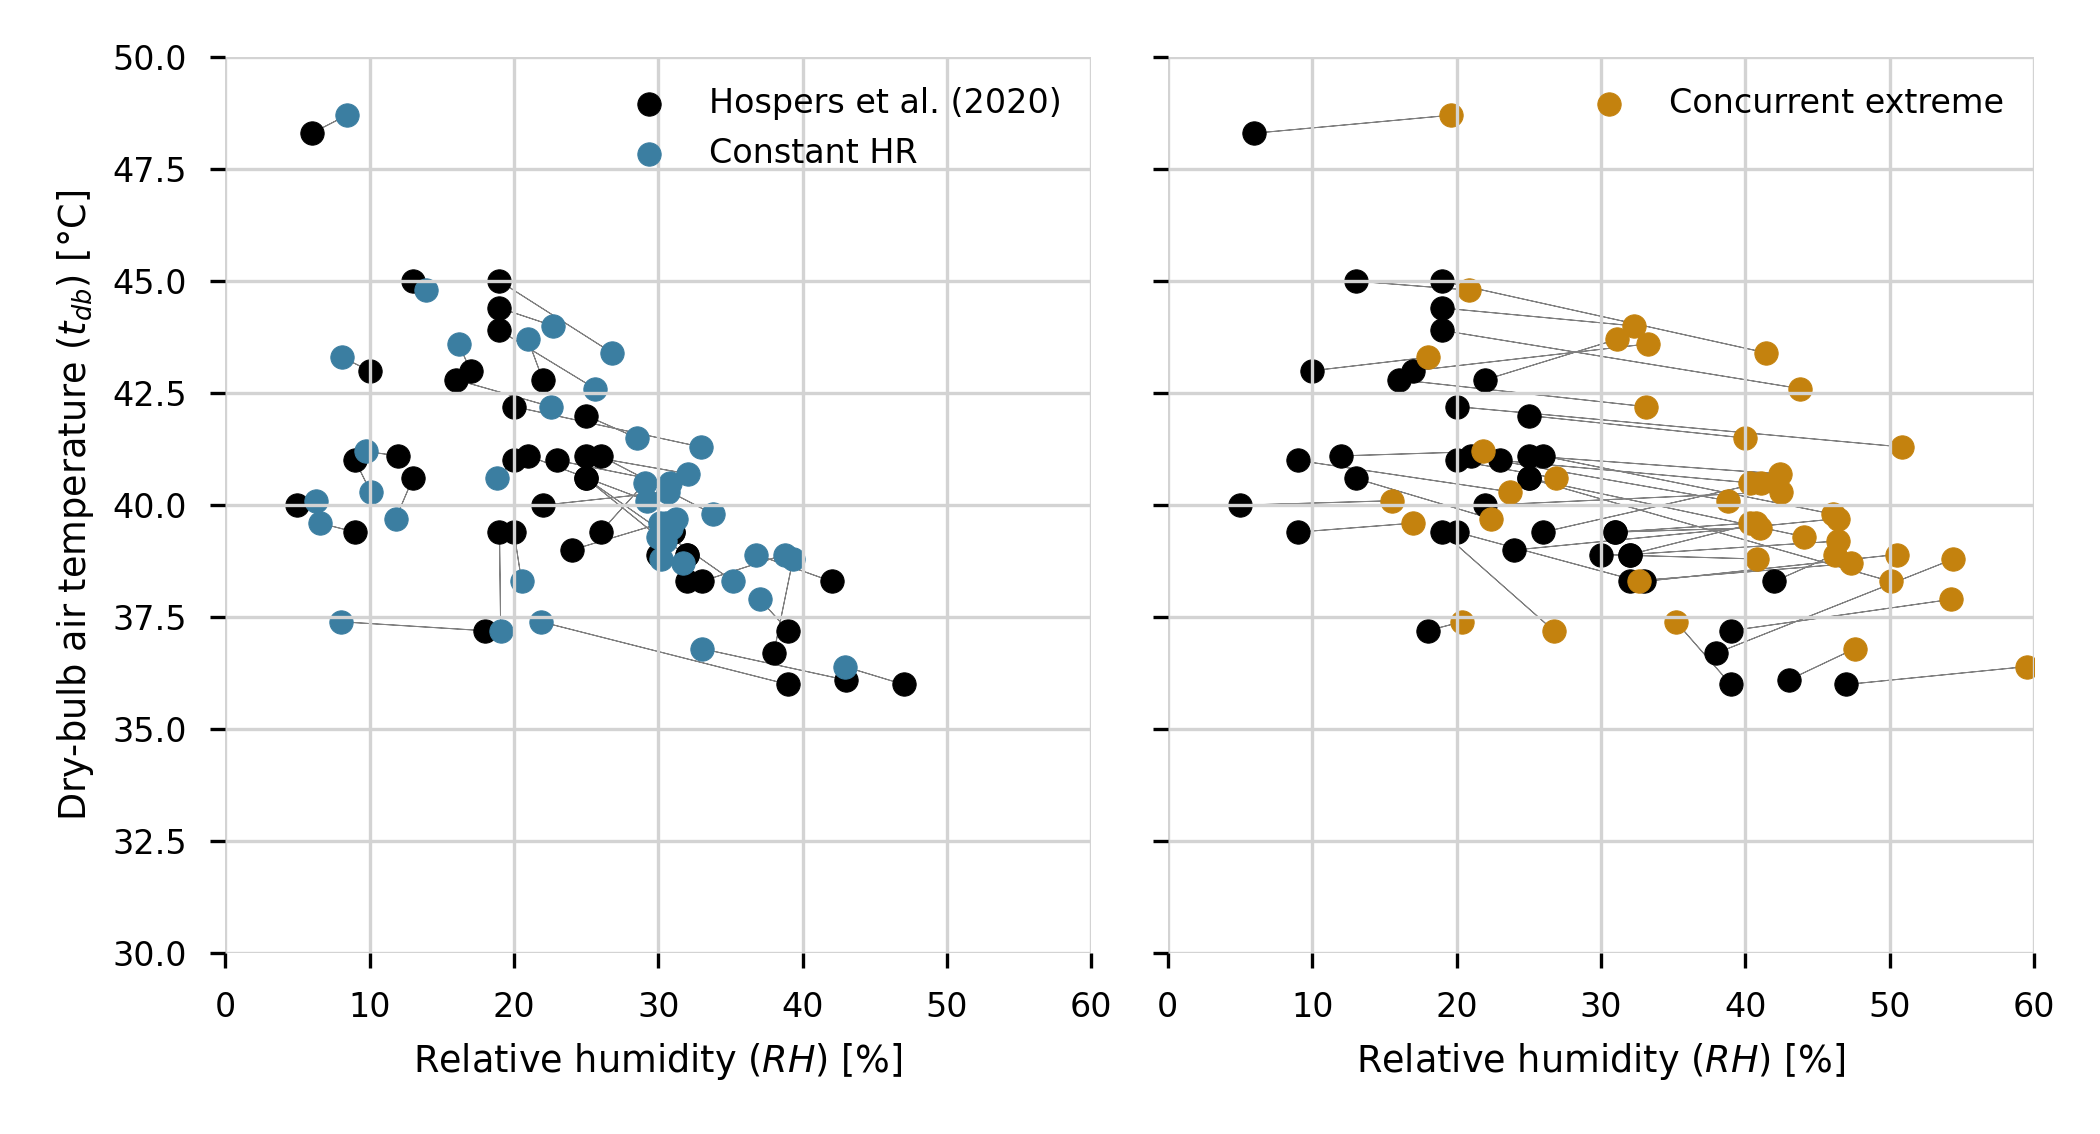
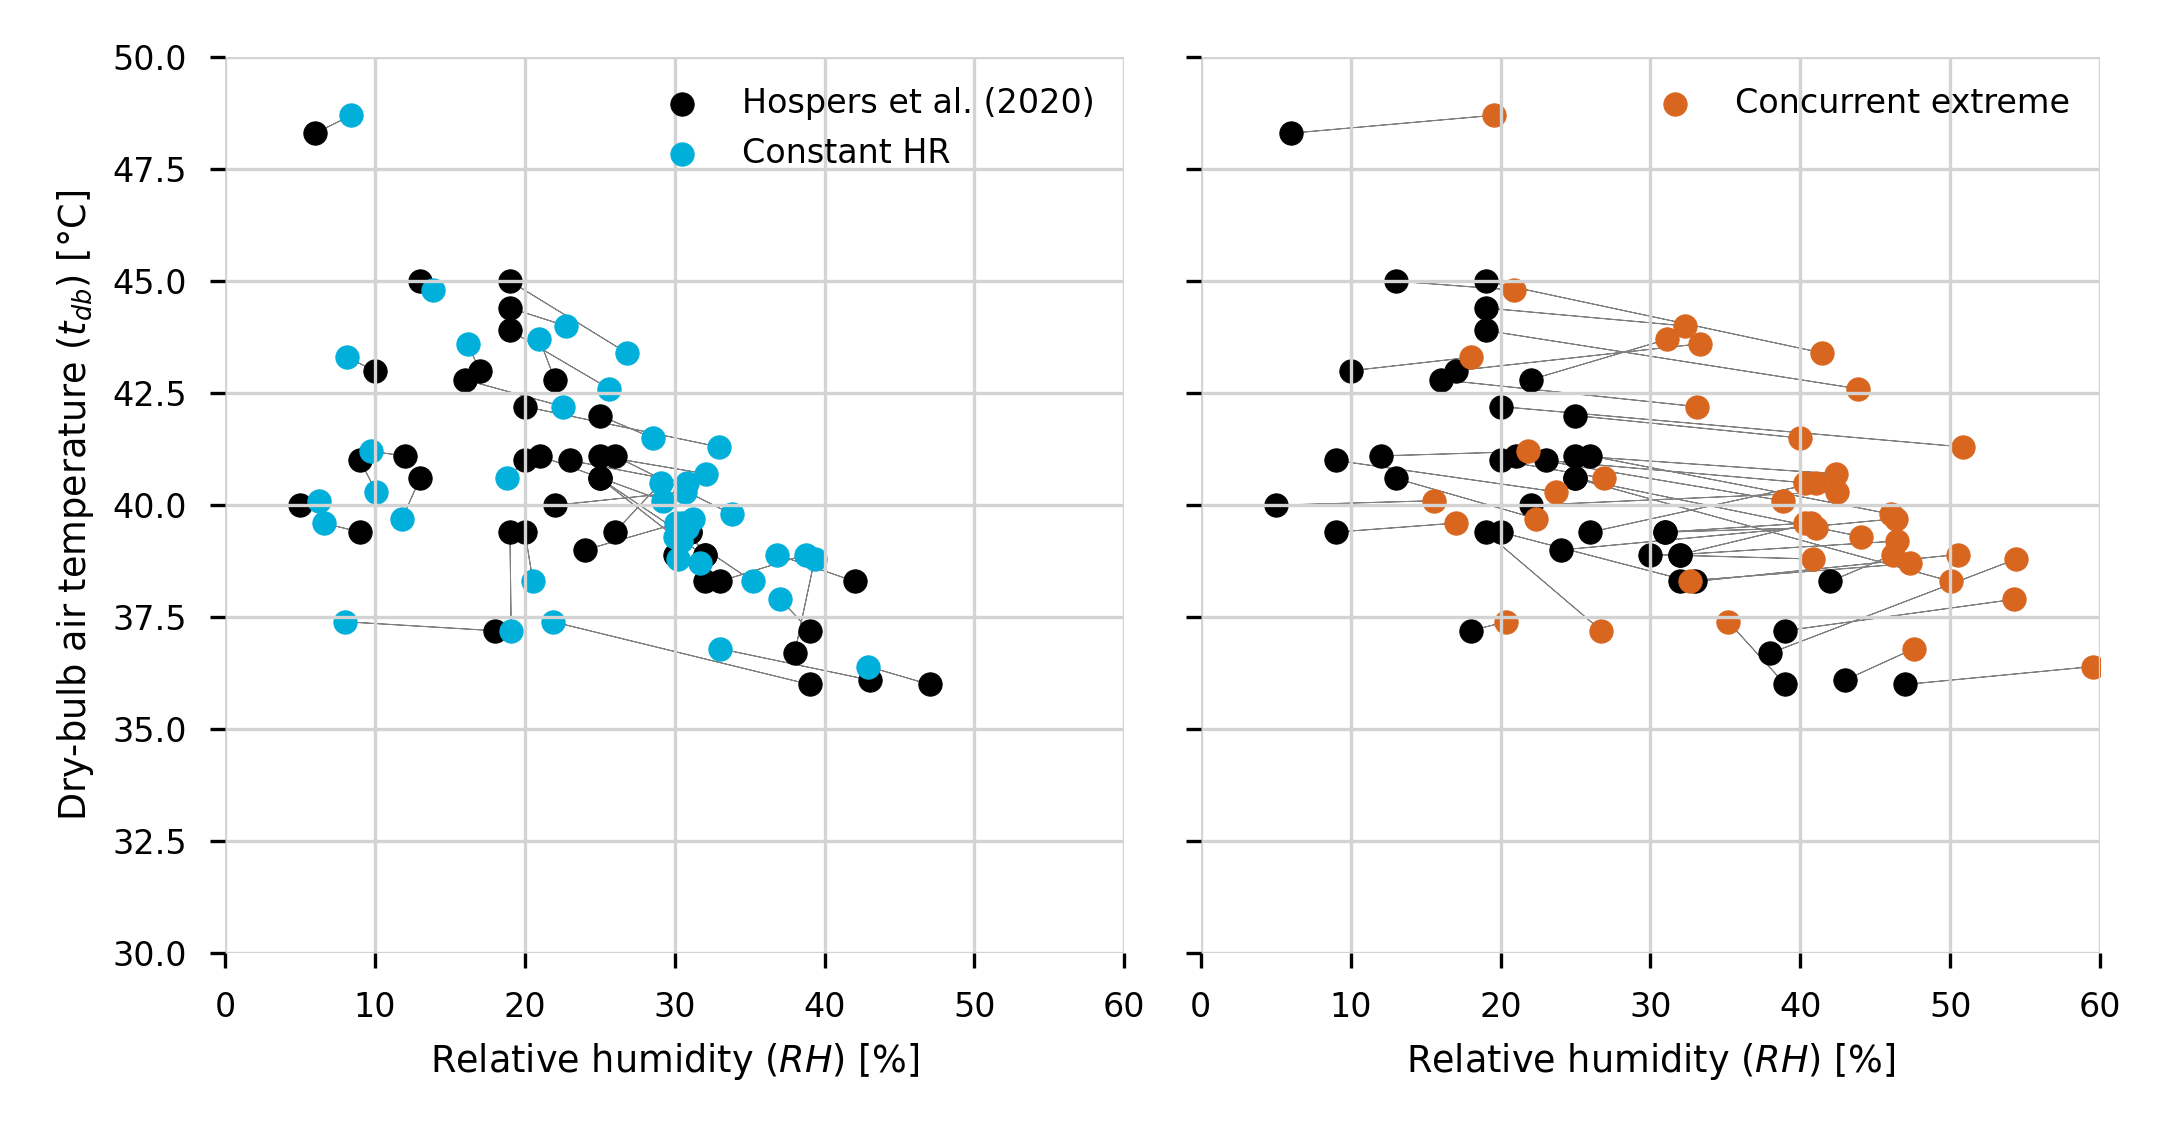
feat: improved charts appendix

diff --git a/code/main.py b/code/main.py
@@ -2503,7 +2503,7 @@ def compare_hospers_ashrae_weather(save_fig=True):
     # drop data from LA and oxnard since have some issues
     df_merged = df_merged[~df_merged["City"].isin(["los angeles", "oxnard"])]
 
-    fig, axs = plt.subplots(1, 1, sharex=True, figsize=(fig_size["2c"], 3.78))
+    fig, axs = plt.subplots(1, 1, sharex=True, figsize=(fig_size["1c"], 2.5))
     df_plot = df_merged[["Constant HR", "Concurrent extreme"]].unstack().reset_index()
     df_plot.columns = ["model", "constant", "Delta relative humidity (RH) [%]"]
     df_plot.constant = "1"
@@ -2518,11 +2518,18 @@ def compare_hospers_ashrae_weather(save_fig=True):
         cut=0,
         data=df_plot,
         inner="quartile",
-        palette=self.colors,
+        palette=self.colors[1:],
     )
     plt.xlabel("")
     plt.grid(c="lightgray")
-    plt.legend(frameon=False)
+    plt.legend(
+        bbox_to_anchor=(0, 1.02, 1, 0.2),
+        loc="lower left",
+        mode="expand",
+        borderaxespad=0,
+        frameon=False,
+        ncol=2,
+    )
     sns.despine(left=True, bottom=True, right=True, top=True)
     axs.get_xaxis().set_ticks([])
     plt.tight_layout()
@@ -2566,7 +2573,7 @@ def compare_hospers_ashrae_weather(save_fig=True):
     axs[1].scatter(
         df_merged["rh_wb_extr"],
         df_merged[temperature_ref],
-        c=self.colors[1],
+        c=self.colors[3],
         label="Concurrent extreme",
     )
     for ix, row in df_merged.iterrows():

diff --git a/manuscript/src/sections/appendix.tex b/manuscript/src/sections/appendix.tex
@@ -39,7 +39,7 @@ The latter in the great majority of the cases overestimated the value of \ac{rh}
 
 \begin{figure}[h]
     \centering
-    \includegraphics[width=\textwidth]{figures/delta_rh}
+    \includegraphics[width=0.5\textwidth]{figures/delta_rh}
     \caption{Difference between the predicted \ac{rh} value estimated using the \textit{constant humidity ratio} and the \textit{coincident extreme conditions}, and the experimental data from \mycite{Hospers2020}.}
     \label{fig:delta_rh}
 \end{figure}
